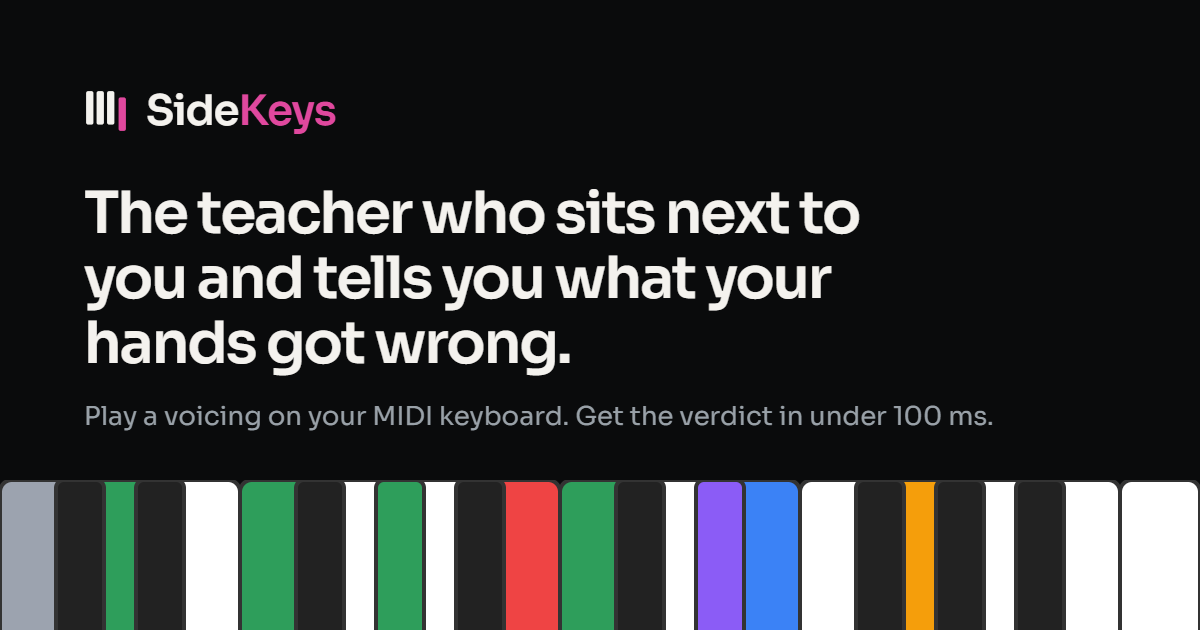
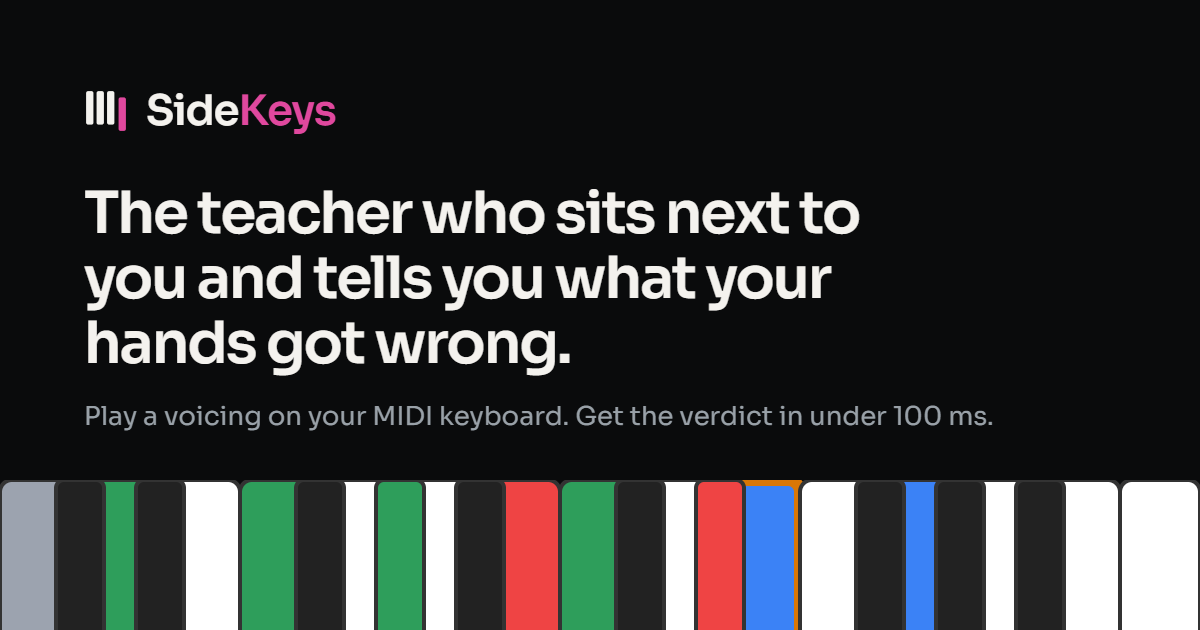
fix: the OG image paints a verdict the app really gives
Edi repainted the keyboard strip in claude.ai/design. Every coloured key
is now exactly what the analyzer says for the Dm7b5 it depicts: Eb4 red
(wrong), where it was violet, and G4 blue (the 11, a tension), where it
was amber. Even the thin orange edge on E is right — it is #d97706, the
app's caution outline, on the 9 the analyzer marks as caution on m7b5.

The first preview anyone sees of the link now makes no claim about theory
that the app itself would contradict. One grey "held" key remains beside
the verdict colours, a state the app never shows together with them; it
asserts nothing false, so it stays.

Changed region(s): [[0.555, 0.754, 0.6783, 1.0], [0.74, 0.754, 0.8017, 1.0]]

diff --git a/docs/JOURNAL.md b/docs/JOURNAL.md
@@ -55,3 +55,4 @@ Jurnalul sesiunilor, mutat neschimbat din `CLAUDE.md` pe 2026-09-19. Intrările 
 - **2026-09-20 (brief de brand)** — Edi face designul, logo-ul și identitatea în claude.ai/design. Unealta de acolo sincronizează o bibliotecă de componente, nu desenează logo-uri, deci ce ajută cu adevărat e **contextul**: [docs/design/BRIEF.md](design/BRIEF.md), în engleză, fiindcă intră direct în unealtă și produce texte englezești. **Decizie Edi**: kitul din `assets/` era pentru „Voicing Lab" și se aruncă — brandul se face de la zero, deci briefingul nu cere continuitate cu nimic. Ce conține: produsul într-un paragraf, numele și tonul (cald, ușor gamificat, **fără mascotă** — decizie, nu scăpare), cum arată interfața azi (`system-ui`, fără logo, fără favicon, fără imagine OG), livrabilele cu dimensiuni exacte și unde aterizează fiecare, plus link-ul viu ca designerul să vadă produsul în zece secunde. **Constrângerea cea mai importantă, scrisă explicit**: culorile interfeței sunt semantice, nu decorative — verde = chord tone, albastru = tensiune, violet = alterată, chihlimbar = avoid, roșu = wrong, gri = ținut, albastru deschis = armat. Un accent de brand nu are voie să se confunde cu ele; dacă brandul chiar vrea una dintre nuanțe, trebuie propus în aceeași suflare înlocuitorul pentru culoarea de teorie, iar distincția în șapte trebuie să rămână citibilă dintr-o privire, inclusiv pentru daltonism. Alte constrângeri: 16px pentru favicon, variante pentru light și dark (pagina urmează sistemul), vecinii pe care să nu-i semene (VoicingLab, JazzPianoLab, Chordify, Chordana, ChordU, PracticeBird — deci fără baloane de laborator și fără grile generice de acorduri) și wordmark-ul care trebuie să rămână recognoscibil dacă fontul web nu se încarcă.
 - **2026-09-22 (brandul legat)** — Edi a făcut identitatea în claude.ai/design; exportul a ajuns ca arhivă în `F:\Proiecte AI\` (nu în repo), l-am despachetat în `assets/`. Setul e exact cel din brief, plus `BRAND.md` cu specificația: accent **magenta** (`#E0489E` / `#C41E7F`), ales pentru că nicio culoare de teorie nu-l revendică; neutre calde; marca din patru bare, ultima coborâtă la margine — „clape lângă tine"; wordmark Sora 600, accent pe „Keys"; **culorile de teorie neatinse**. **Verificat, nu luat pe cuvânt**: dimensiunile PNG-urilor sunt exacte (lockup-uri 1200×480, OG 1200×630); SVG-urile sunt doar dreptunghiuri, fără scripturi sau referințe externe (cei ~8 KB în plus sunt un manifest C2PA de proveniență, în `<metadata>`); CIEDE2000 între accent și cele șapte culori de teorie, la vedere normală și simulat pentru protanopie, deuteranopie și tritanopie (Machado 2009) — la vedere normală orice pereche e peste 23; **punctul slab e deuteranopia**, unde accentul întunecat ajunge la **6,5** de `--held`, neutralizat doar de regula „accentul nu atinge niciodată o clapă", deci regula e portantă și e scrisă ca atare în `styles.css`; contrastul accentului e 5,24:1 pe ambele teme (trece AA). Favicon-ul l-am rasterizat la 16px și 32px: la 16 barele rămân separate, iar bara magenta se vede clar — grija mea dinainte era nejustificată. **Găsit pe imaginea OG**: am reconstruit claviatura pixel cu pixel (două octave cromatice de la Do, clapele negre corect grupate) și am trecut verdictul pictat prin analizor — notele verzi sunt Dm7b5 (sau Fm6, aceleași patru), iar **două clape arată un verdict pe care aplicația nu l-ar da**: Eb4 violet („alterată") unde aplicația spune roșu (wrong), G4 chihlimbar („avoid") unde spune albastru (tensiune); plus un gri „held" amestecat cu verdicte, stare pe care aplicația n-o arată. Înlocuitor verificat de analizor, de dat lui Claude Design: G7 cu B3 verde, F4 verde, A4 albastru, Eb5 violet, F#5 roșu. **Legat în pagină (varianta completă, la cererea lui Edi)**: tokenii de brand pe ambele teme lângă cei de teorie, fundal și cerneală explicite, accentul pe tab-ul activ (subliniere), link-uri și focus; lockup-ul din antet ca text viu plus marcă, cu `<picture>` care alege marca pentru fond deschis; **nu e link**, cum sugera specificația, pentru că un clic pe logo ar reîncărca aplicația și ar pierde sesiunea de studiu; favicon pe ambele pagini; tag-uri Open Graph și Twitter; lockup-ul în antetul README, pe tema cititorului de pe GitHub. **Verificat în browser pe ambele teme**: culorile calculate sunt cele din specificație, marca potrivită e aleasă automat, iar pe clape apar doar alb, negru și culorile de teorie — zero magenta. **239 de teste**, harness-ul reia neschimbat. **Deschise**: banda de clape din imaginea OG, de repictat înainte de primul link trimis; Sora găzduit local — un singur fișier variabil, `latin`, 25 KB, plus textul OFL cerut de licență; până atunci pagina cade pe `system-ui`, cum permite specificația.
 - **2026-09-22 (fontul, găzduit local)** — Cu acordul lui Edi pentru descărcare, Sora e acum în repo, cum cerea specificația: fără cerere la Google la fiecare vizită și cu drum deschis spre offline. **O schimbare față de ce aprobase**, spusă explicit: îi cerusem acordul pentru fișierul pe care Google îl dă la „400 și 600" (25 KB), dar acela e **instanțiat doar pe intervalul 400–600**, iar interfața folosește deja 400, 500, 600 și **700** (simbolul mare de acord) — cu el, 700 ar fi fost redus la 600. Am luat fișierul cu axa întreagă (100–800, 33 KB): același font, aceeași sursă, aceeași licență. Lângă el, `OFL.txt`, pe care licența îl cere la redistribuire. Verificate înainte de legare: semnătura `wOF2` și mărimea egală cu cea declarată în antetul fontului; licența e OFL 1.1 pentru Sora. `@font-face` cu `font-display: swap` și `unicode-range` latin, plus un `preload`. **Verificat că e chiar folosit, nu doar declarat**: același text măsoară 217,8px în Sora față de 189,7px în `system-ui`; toate cele patru greutăți sunt reale; o singură cerere pentru font. **Efect secundar găsit și reparat**: Sora e mai lat, iar rândul de sub claviatură s-a rupt — grupul „octave" a căzut pe a doua linie. Acum textul de ajutor e singurul element care cedează (își împarte textul pe două linii), iar controalele rămân pe un rând la 1280px; la 375px nimic nu iese din ecran. Lecție de măsurare: panoul browserului ascuns dă lățimi de 0, iar „`top`-uri distincte" nu înseamnă rânduri distincte când elementele sunt centrate vertical — am numărat rândurile după suprapunere.
+- **2026-09-22 (imaginea OG, corectată)** — Edi a repictat banda de clape în claude.ai/design. Noul export a ajuns în `assets/` ca arhivă plus folder despachetat; comparat fișier cu fișier cu ce era legat, **doar `og-image.png` diferea**, restul identic la byte. Claude Design n-a folosit exemplul cu G7 pe care îl propusesem: a păstrat compoziția cu Dm7b5 și a corectat exact cele două clape greșite. **Verificat pixel cu pixel și prin analizor**: toate cele opt clape colorate sunt acum fix verdictul pe care aplicația îl dă pe Dm7b5 — Eb4 roșu (wrong), G4 albastru (tensiune, 11) — iar dunga portocalie de pe marginea lui Mi e `#d97706`, adică exact conturul „caution" al aplicației, pus pe 9, pe care analizorul chiar îl marchează caution pe m7b5. Rămâne un Do gri („held") lângă culori de verdict, stare pe care aplicația n-o arată; nu afirmă însă nimic fals despre teorie, deci n-a meritat încă o rundă. Imaginea e instalată peste `assets/og-image.png`; **copiile de export le-am mutat, nu le-am șters**, în `F:\Proiecte AI\SideKeys-design\`, ca să nu intre din greșeală în commit și ca să nu suprascriu arhiva de dimineață. **Link-ul se poate trimite.**

diff --git a/CLAUDE.md b/CLAUDE.md
@@ -130,12 +130,12 @@ La 2026-09-20:
 - **Piesa demo nu blochează nimic** (decizie Edi, 2026-09-20). DoD-ul P0 cere doar „demo-ul public merge fără clapă"; „apasă reharmonize pe piesa demo" e din `PHASES.md`, adică din faza veche, iar unde se contrazic câștigă `PRODUCT.md`. Deci: **fără `demo/reharm.json`, tab-ul Reharm nu apare pe site-ul publicat**, iar demo-ul arată exact produsul — analiza, drill-ul, progresiile, clapa de ecran. Dovada arhitecturii hibride stă în README (diagrama + cifrele din `eval/reports/`). Dacă Edi vrea totuși exemplul salvat, cel mai ieftin drum e o melodie originală scurtă peste o progresie din bibliotecă, apoi `sideKeys.saveReharm()`; e o schimbare de fișier, nu de cod.
 - **Publicarea e făcută** (2026-09-20): repo public, Pages viu pe https://editnss.github.io/SideKeys/, demo verificat pe link-ul publicat (4 clicuri → acord → analiză, synth-ul sună, fără tab Reharm și fără „Ask Claude", fiindcă nu au ce face acolo), CI verde pe commit-ul publicat. **Rămas din P0**: GIF și video pentru README (de la Edi) — apoi **prototipul de microfon** cu `basic-pitch-ts`, în afara lui `src/` (prag: peste 90% din 20 de voicings identificate corect, cu octava exactă). De la Edi, separat: o piesă proprie cu „plan & review" ascultată pe Genos (ultima jumătate a DoD-ului Fazei 3b).
 - **Worker-ul rămâne local** (`start.cmd`) și **nu se publică** (decizie Edi, 2026-09-20): site-ul publicat nu face niciun apel AI, deci nu poate costa nimic. `PUBLISHED_PROXY_URL` rămâne gol în `app.js`, iar butonul „Ask Claude" apare doar când există un proxy în Settings — cine clonează repo-ul și pornește Worker-ul cu cheia lui îl primește înapoi. Dacă se publică vreodată: limita din `wrangler.jsonc` e 20 de cereri pe minut pe IP, adică ~12 $/oră expunere dacă e scriptată — se scade întâi (6/minut ajunge pentru un om), plus un plafon lunar în consola Anthropic.
-- **Brandul e legat în pagină** (2026-09-22), făcut de Edi în claude.ai/design după [docs/design/BRIEF.md](docs/design/BRIEF.md); specificația designerului e în `assets/BRAND.md`. Accent magenta (`#E0489E` pe întunecat, `#C41E7F` pe luminos), neutre calde, marca cu patru bare dintre care ultima e coborâtă la margine, wordmark-ul Sora. **Culorile de teorie au rămas neatinse**, iar accentul stă doar pe elemente de interfață — lockup, tab activ, link-uri, focus — **niciodată pe o clapă sau într-un verdict**: la deuteranopie, accentul întunecat e la 6,5 ΔE de `--held`, deci regula e portantă (comentariul din `styles.css`). Măsurat: la vedere normală orice pereche accent–teorie e peste 23 ΔE, contrastul accentului e 5,24:1 pe ambele teme. **Deschise**: (1) banda de clape din `og-image.png` pictează un verdict pe care aplicația nu l-ar da (Eb4 violet în loc de roșu, G4 chihlimbar în loc de albastru) — de repictat în claude.ai/design **înainte de a trimite link-ul oricui**, cu verdictul verificat din jurnal. **Sora e găzduit local** în `assets/fonts/`: un singur fișier variabil, subsetul latin, axa întreagă (100–800, 33 KB), cu licența `OFL.txt` alături, cum cere OFL.
+- **Brandul e legat în pagină** (2026-09-22), făcut de Edi în claude.ai/design după [docs/design/BRIEF.md](docs/design/BRIEF.md); specificația designerului e în `assets/BRAND.md`. Accent magenta (`#E0489E` pe întunecat, `#C41E7F` pe luminos), neutre calde, marca cu patru bare dintre care ultima e coborâtă la margine, wordmark-ul Sora. **Culorile de teorie au rămas neatinse**, iar accentul stă doar pe elemente de interfață — lockup, tab activ, link-uri, focus — **niciodată pe o clapă sau într-un verdict**: la deuteranopie, accentul întunecat e la 6,5 ΔE de `--held`, deci regula e portantă (comentariul din `styles.css`). Măsurat: la vedere normală orice pereche accent–teorie e peste 23 ΔE, contrastul accentului e 5,24:1 pe ambele teme. **Imaginea OG spune adevărul** (repictată de Edi pe 2026-09-22): fiecare clapă colorată din bandă e exact ce ar spune aplicația pe Dm7b5, inclusiv conturul „caution" pe 9. Rămâne un Do gri („held") lângă culori de verdict, stare pe care aplicația n-o arată — neînsemnat, nu afirmă nimic fals. **Sora e găzduit local** în `assets/fonts/`: un singur fișier variabil, subsetul latin, axa întreagă (100–800, 33 KB), cu licența `OFL.txt` alături, cum cere OFL.
 - Necommis: `Voicing Lab ca produs.pdf` (numele de dinainte de redenumire, cum e pe disc și în `.gitignore`), care nu intră în repo (analiza de piață stă în afara lui, vezi `PRODUCT.md`).
 
 ## Următorul pas
 
-Brandul e legat. Înainte de orice link trimis cuiva: **banda de clape din `og-image.png` repictată** în claude.ai/design cu verdictul verificat (G7: B3 verde, F4 verde, A4 albastru, Eb5 violet, F#5 roșu, fără gri), Apoi **GIF-ul de 15 secunde și videoul de 60–90 s** pentru README (filmate de Edi), apoi **prototipul de microfon** cu `basic-pitch-ts`. Pe listă la P2, nu acum: opinie de marcă pe familia „Sidekick" în clasele 9 și 41, înainte de înregistrare.
+Brandul e legat și imaginea OG e corectă, deci link-ul se poate trimite. Urmează **GIF-ul de 15 secunde și videoul de 60–90 s** pentru README (filmate de Edi), apoi **prototipul de microfon** cu `basic-pitch-ts`. Pe listă la P2, nu acum: opinie de marcă pe familia „Sidekick" în clasele 9 și 41, înainte de înregistrare.
 
 ## Documentație
 

diff --git a/docs/design/BRIEF.md b/docs/design/BRIEF.md
@@ -1,8 +1,8 @@
 # SideKeys — brand brief
 
 > **Done, 2026-09-22.** The result is in `assets/`, specified in `assets/BRAND.md` and wired into the page.
-> One open item: the keyboard strip in `og-image.png` paints a verdict the app would never give
-> (see `docs/JOURNAL.md`, 2026-09-22) and is to be repainted with a real one.
+> The keyboard strip in `og-image.png` was repainted the same day so that every coloured key is
+> the verdict the app itself gives (see `docs/JOURNAL.md`, 2026-09-22).
 
 Paste this into claude.ai/design. It is in English, unlike the rest of `docs/`, because the
 assets it produces carry English text and land in an English repository.
